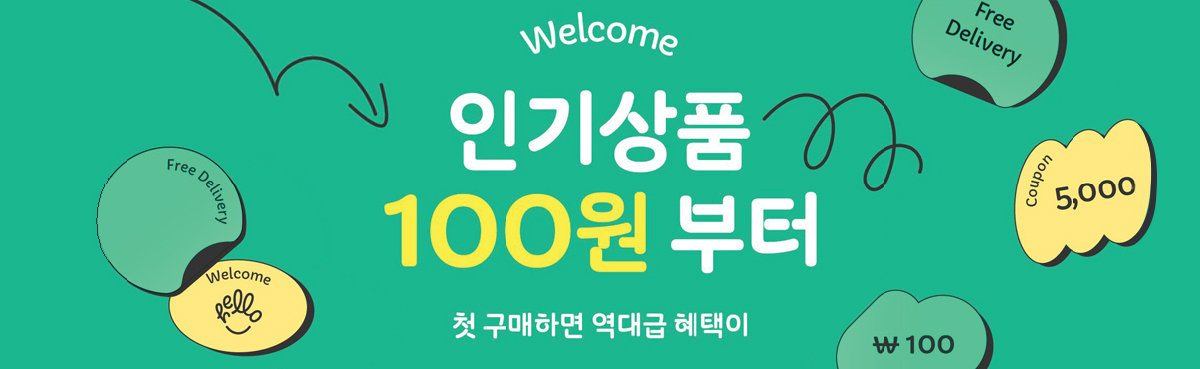
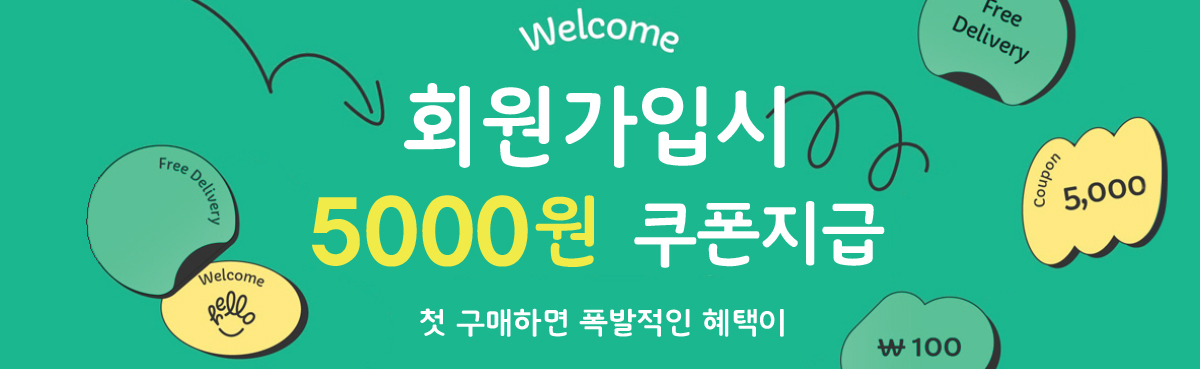
인덱스 메인배너 / 슬라이드배너 수정

diff --git a/src/main/resources/templates/user/index.html b/src/main/resources/templates/user/index.html
@@ -5,12 +5,15 @@
     <meta http-equiv="X-UA-Compatible" content="IE=edge">
     <meta name="viewport" content="width=device-width, initial-scale=1.0">
     <title>홈페이지 메인 1-1</title>
-    <!--<link rel="stylesheet" href="./style/index_style.css">-->
+    <link rel="stylesheet" href="/resource/css/bootstrap.css">
     <link rel="stylesheet" th:href="@{/user/css/index_style.css}">
     <link rel="stylesheet" th:href="@{/user/css/layout.css}">
-    <script src="https://code.jquery.com/jquery-3.6.0.min.js" integrity="sha256-/xUj+3OJU5yExlq6GSYGSHk7tPXikynS7ogEvDej/m4=" crossorigin="anonymous"></script>
-    <link rel="stylesheet" href="/resource/css/bootstrap.css">
 </head>
+<script
+        src="https://code.jquery.com/jquery-3.6.0.min.js"
+        integrity="sha256-/xUj+3OJU5yExlq6GSYGSHk7tPXikynS7ogEvDej/m4="
+        crossorigin="anonymous">
+</script>
 <script>
     $(function (){
         sessionStorage.removeItem("ship_id");
@@ -33,36 +36,25 @@
         <!-- 두번째 배너 -->
         <div class="main_sec_bnr_wrap" id="main_sec_slider">
             <div class="main_sec_bnr" id="main_slider">
-                <!-- <input type="radio" name="slide-radios" class="slide-radio"  id="slide-radio-1">
-                    <input type="radio" name="slide-radios" class="slide-radio"  id="slide-radio-2">
-                    <input type="radio" name="slide-radios" class="slide-radio"  id="slide-radio-3">
-                    <input type="radio" name="slide-radios" class="slide-radio"  id="slide-radio-4">
-
-                    <div class="pagination">
-                        <label for="slide-radio-1"></label>
-                        <label for="slide-radio-2"></label>
-                        <label for="slide-radio-3"></label>
-                        <label for="slide-radio-4"></label>
-                    </div> -->
 
                 <div class="sec_bnr_slide" id="slide-1">
                     <a href="#">
-                        <img src="/user/images/banner/main_second_bnr.jpg" alt="배너1">
+                        <img src="/user/images/banner/main_second_bnr_4.jpg" alt="배너1">
                     </a>
                 </div>
                 <div class="sec_bnr_slide" id="slide-2">
                     <a href="#">
-                        <img src="/user/images/banner/main_second_bnr.jpg" alt="배너2">
+                        <img src="/user/images/banner/main_second_bnr_2.jpg" alt="배너2">
                     </a>
                 </div>
                 <div class="sec_bnr_slide" id="slide-3">
                     <a href="#">
-                        <img src="/user/images/banner/main_second_bnr.jpg" alt="배너3">
+                        <img src="/user/images/banner/main_second_bnr_3.jpg" alt="배너3">
                     </a>
                 </div>
                 <div class="sec_bnr_slide" id="slide-4">
                     <a href="#">
-                        <img src="/user/images/banner/main_second_bnr.jpg" alt="배너4">
+                        <img src="/user/images/banner/main_second_bnr_1.jpg" alt="배너4">
                     </a>
                 </div>
             </div>

diff --git a/src/main/resources/static/user/css/index_style.css b/src/main/resources/static/user/css/index_style.css
@@ -37,10 +37,10 @@ body { background-color: #fff; margin: 0; width: 100%; font-family: 'Noto Sans K
 .sec_bnr_slide {height:175px; width:100%; position:absolute; left:0; top:0; transition: transform 1s cubic-bezier(0.85, 0, 0.15, 1); display: flex; flex-direction: column; align-items:center; text-align:center;}
 .main_sec_bnr input {display: none;}
 
-#slide-1 {background-color: #fde0d5; left: 0;}
-#slide-2 {background-color: #fde0d5; left: 100%;}
-#slide-3 {background-color: #fde0d5; left: 200%;}
-#slide-4 {background-color: #fde0d5; left: 300%;}
+#slide-1 {background-color: #ffd4c2; left: 0;}
+#slide-2 {background-color: #ecf8ff; left: 100%;}
+#slide-3 {background-color: #fffed4; left: 200%;}
+#slide-4 {background-color: #ffd2a2; left: 300%;}
 
 #slide-radio-1:checked ~ .sec_bnr_slide {transform: translateX(0);}
 #slide-radio-2:checked ~ .sec_bnr_slide {transform: translateX(-100%);}
@@ -584,7 +584,7 @@ body { background-color: #fff; margin: 0; width: 100%; font-family: 'Noto Sans K
 #cartPut .cart_option .list .btn { overflow: hidden; float: left; width: 28px; height: 28px; border: 0; font-size: 0; line-height: 0; text-indent: -9999px; }
 #cartPut .cart_option .list .inp { float: left; width: 30px; height: 30px; margin-right: -1px; padding: 0 0 4px; border: 0; background-color: #fff; font-size: 14px; color: #000; line-height: 18px; text-align: center; }
 #cartPut .cart_option .list .up.on { background-image: url(../images/ico_plus_on.svg);}
-#cartPut .cart_option .list .up { float: right; margin-left: -1px; background: #fff url(h../images/ico_plus.svg) no-repeat 50% 50%; background-size: 30px 30px;}
+#cartPut .cart_option .list .up { float: right; margin-left: -1px; background: #fff url(../images/ico_plus.svg) no-repeat 50% 50%; background-size: 30px 30px;}
 #cartPut .cart_type2 .list .price { float: right; padding: 5px 4px 0; font-size: 12px; line-height: 20px; letter-spacing: -.6px; }
 #cartPut .cart_type2 .list_nopackage .price, #cartPut .cart_type2 .list_nopackage .name, #cartPut .cart_type2 .list_nopackage .btn_position { display: none; }
 #cartPut .cart_option .list .price { font-weight: 700; text-align: right; }
